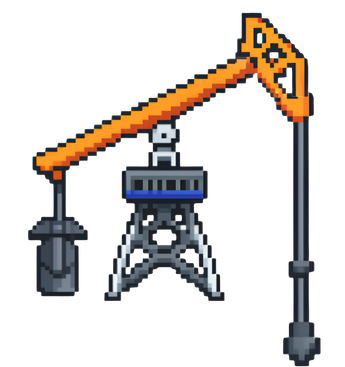
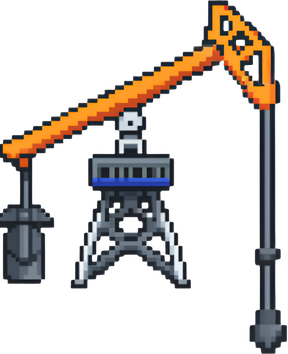
Attempted bug fixes

diff --git a/style.css b/style.css
@@ -119,11 +119,11 @@ body {
 }
 #oil-rig-extended {
     opacity: 0;
-    transform: translateX(-50%) translateY(6px);
+    transform: translateX(-50%);
 }
 #oil-rig-extended.visible {
     opacity: 1;
-    transform: translateX(-50%) translateY(6px);
+    transform: translateX(-50%);
 }
 #oil-rig-base.hidden {
     opacity: 0;